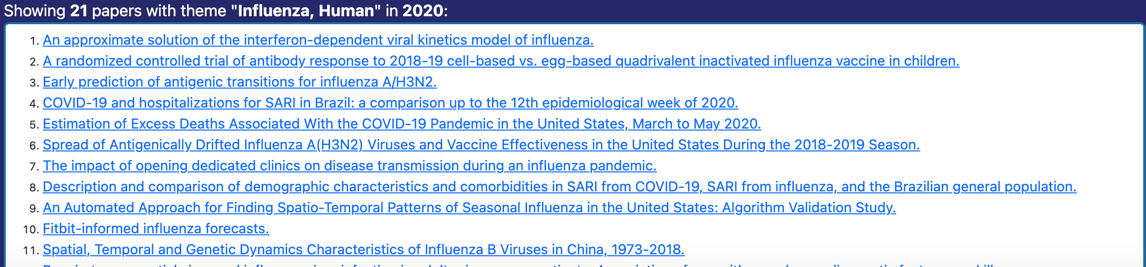
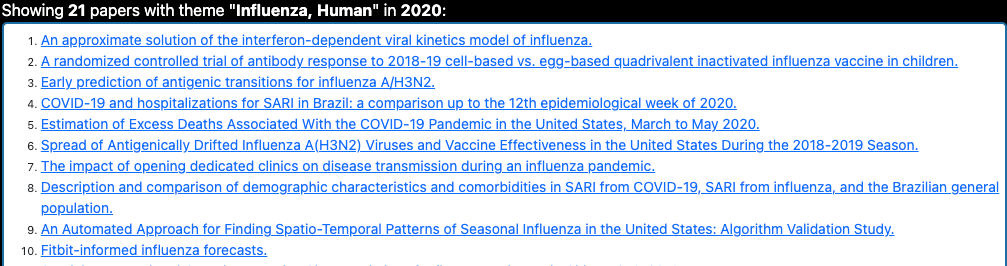
severl updates

diff --git a/css/themeriver.min.css b/css/themeriver.min.css
@@ -1,1 +1,1 @@
-@keyframes s-ripple{0%{opacity:0;transform:scale(0)}20%{transform:scale(1)}to{opacity:.01;transform:scale(1)}}@keyframes s-ripple-dup{0%{transform:scale(0)}30%,60%{transform:scale(1)}to{opacity:0;transform:scale(1)}}.control{font-family:arial,serif;display:block;position:relative;padding-left:30px;margin-bottom:5px;padding-top:3px;cursor:pointer;font-size:16px}.control input{position:absolute;z-index:-1;opacity:0}.control_indicator{position:absolute;top:2px;left:0;height:20px;width:20px;background:#e6e6e6;border:0 solid #000;border-radius:0}.control input:focus~.control_indicator,.control:hover input~.control_indicator{background:#ccc}.control input:checked~.control_indicator{background:#2aa1c0}.control input:checked:focus~.control_indicator,.control:hover input:not([disabled]):checked~.control_indicator{background:#0e6647d}.control input:disabled~.control_indicator{background:#e6e6e6;opacity:.6;pointer-events:none}.control_indicator:after{box-sizing:unset;content:"";position:absolute;display:none}.control input:checked~.control_indicator:after{display:block}.control-radio .control_indicator{border-radius:50%}.control-radio .control_indicator:after{left:7px;top:7px;height:6px;width:6px;border-radius:50%;background:#fff;transition:background 250ms}.control-radio input:disabled~.control_indicator:after{background:#7b7b7b;display:none}.control-radio .control_indicator::before{content:"";display:block;position:absolute;left:0;top:0;width:4.5rem;height:4.5rem;margin-left:-1.3rem;margin-top:-1.3rem;background:#2aa1c0;border-radius:3rem;opacity:.6;z-index:99999;transform:scale(0)}.control-radio input+.control_indicator::before{animation:s-ripple 250ms ease-out}.control-radio input:checked+.control_indicator::before{animation-name:s-ripple-dup}.control-radio{font-size:14px}text{font-size:2em}.tick text{font-size:1.6em;fill:#333}.tick line{stroke:#ccc}.container{max-width:100vw!important;height:100%;display:flex;flex-direction:column;flex-flow:column}#word-box{position:absolute;pointer-events:none}.subtitle,.title{text-align:center;font-size:20px}.subtitle{font-size:14px}#header-row{flex:0 1 auto}#chart-row{flex:1 1 auto;opacity:0}#info-row,#wrapper{height:100%}#info-row{flex:0 1 275px;background-color:#252969;row-gap:20px}#paper-list{height:250px;overflow:scroll;margin-bottom:25px;background-color:#fff;font-size:14px}#paper-list ul,#term-list ul{list-style-type:auto}#paper-list li::marker,#term-list li::marker{font-size:11px}#year-list{margin-left:1em}.selected{background-color:#2aa1c0}#term-list{overflow:auto;height:250px;margin-bottom:25px;background-color:#fff;font-size:14px}.term-display label{color:#fff;font-size:18px}.side-panel{border:2px solid #1c6ea4;border-radius:5px;padding:5px}.hide-on-start{visibility:hidden}#current-topic-count,#instruction-line,#pubmed-rb-line,#topic-line,#topic-line2{color:#fff;font-size:16px}.hide-on-selection{visibility:visible}.options-header{color:#fff;text-align:center}#current-topic,#current-topic-count,#current-topic-count2,#current-year{font-weight:700}.control{color:#fff}.paper-instructions{color:#fff;font-size:24px;margin-left:100px;margin-top:100px!important;opacity:0}#options{min-width:200px;max-width:300px;margin:30px auto auto;padding:5px;border:2px solid #fff;border-radius:10px}#ngram-size-in-title,#pubmed-datasource-in-title{font-weight:700}.box_with_arrow{padding:5px}.center-options{margin-left:auto;margin-right:auto;display:table}.control-group-ngram{display:flex;justify-content:center}.control-group-ngram .control{padding-right:10px}#ngram-line,#tension-line{margin-top:10px;font-size:16px}.paper-display{padding-right:45px}.paper-display,.term-display{display:none;opacity:0;height:250px}.tooltip{display:inline-block;position:relative;text-align:left}.tooltip .right{min-width:150px;max-width:250px;top:50%;left:100%;margin-left:20px;transform:translate(0,-50%);padding:2px;color:#444;background-color:#fff;font-weight:400;font-size:13px;border-radius:8px;position:absolute;z-index:99999999;box-sizing:border-box}.tooltip .left i,.tooltip .right i{position:absolute;top:50%;margin-top:-12px;width:12px;height:24px;overflow:hidden}.tooltip .right i{right:100%}.tooltip .right i::before{content:"";width:12px;height:12px;left:0;transform:translate(50%,-50%) rotate(-45deg)}.tooltip .left,.tooltip .left i::after,.tooltip .right i::before{position:absolute;top:50%;background-color:#fff}.tooltip .left{min-width:150px;right:100%;margin-right:20px;transform:translate(0,-50%);padding:2px;color:#444;font-weight:400;font-size:13px;border-radius:8px;z-index:99999999;box-sizing:border-box}#abstract-tooltip a,#abstract-tooltip a:visited,.tooltip:hover .left{display:block}.tooltip .left i{left:100%}.tooltip .left i::after{content:"";width:12px;height:12px;left:0;transform:translate(-50%,-50%) rotate(-45deg)}#theme-color{color:#000;text-align:center}#river-word,#tooltip-inner{background-color:#fff;color:#000}#river-word{font-size:16px;text-wrap:nowrap;margin-left:5px;margin-right:5px}#tooltip-inner{border:4px solid;border-radius:8px}#word-label-row{text-align:center;margin-bottom:0}#word-label{padding-right:5px;padding-left:5px}.slidecontainer{text-align:center}#myRange{height:30px;display:inline-block;vertical-align:bottom;width:50%}#main-svg path:hover{transition:.1s;opacity:1}#topic-list{width:100%}#topic-list>tbody>tr>td:nth-child(1){text-decoration:underline;color:var(--bs-link-color);width:10%}#topic-list>tbody>tr>td:nth-child(2),#topic-list>tbody>tr>td:nth-child(3){text-decoration:underline;color:var(--bs-link-color);width:80%}#topic-list>tbody>tr>td:nth-child(3){width:10%}.term-rank-number{font-size:10px}#term-list thead,.paper span{display:none}#term-list thead th.Color,#term-list thead th.Rank{width:15%}#home li,#menuv{font-size:14px;margin:1px}#menuv{padding:0;border:0;font-family:verdana,sans-serif;width:100%}.link a:hover{text-decoration:none}#abstract-hover{background:#252969;position:absolute;display:none;line-height:20px;padding:10px;font-size:12px;color:#fff;border:4px solid #fff;border-radius:5px;text-shadow:rgba(0,0,0,.1) 1px 1px 1px;box-shadow:rgba(0,0,0,.1) 1px 1px 2px 0}#instruction-row{color:#252969;margin:10px 5%}.instruction-header{font-weight:700}.paper:hover span{transition-delay:1s}.tab-content,.tab-pane{height:100%}body{height:100vh}#main-container{display:flex;flex-flow:column;height:100vh}.nav-tabs{flex:0 1 auto}.tab-content{flex:1 1 auto;overflow-y:auto}.caption-div{border:1px solid #ddd;display:flex;flex-direction:column;flex:1 1 50%}.caption{flex:0 1 auto;padding:5px;margin:5px;border:1px solid #ddd;border-radius:5px;background-color:#eee;text-align:center;font-size:16px;font-weight:700;color:#252969}.figure{padding:5px;width:100%}#fullfigure{width:75%;margin-left:auto;margin-right:auto}#instructions,#row-of-figures{display:flex;flex-direction:row}.text-instructions{flex:1 1 50%;margin-left:0;margin-right:75px;margin-bottom:20px}#row-of-figures{column-gap:20px}#fulltermdiv{flex:1 1 20%}#fullpaperdiv{flex:1 1 60%}#fulloptiondiv{flex:1 1 20%}#home li{padding:1px}#docTab{margin-bottom:10px}#yaxis,.hide{display:none}ul.list-style-none li a{color:#673ab7;padding:8px 0;display:block;text-decoration:none}#main-middle-div{padding:10px}#example-river{flex:1 1 50%!important;height:fit-content}#example-river img{max-height:600px}#viz-explain li{padding:0!important;margin:0 0 4px!important}.active{display:block}.hide-until-selection{visibility:hidden}#please-header{position:absolute;top:10%;color:#252969;font-size:24px}
+@keyframes s-ripple{0%{opacity:0;transform:scale(0)}20%{transform:scale(1)}to{opacity:.01;transform:scale(1)}}@keyframes s-ripple-dup{0%{transform:scale(0)}30%,60%{transform:scale(1)}to{opacity:0;transform:scale(1)}}.control{font-family:arial,serif;display:block;position:relative;padding-left:30px;margin-bottom:5px;padding-top:3px;cursor:pointer;font-size:16px}.control input{position:absolute;z-index:-1;opacity:0}.control_indicator{position:absolute;top:2px;left:0;height:20px;width:20px;background:#e6e6e6;border:0 solid rgba(8,8,14,.9);border-radius:0}.control input:focus~.control_indicator,.control:hover input~.control_indicator{background:#ccc}.control input:checked~.control_indicator{background:#8b0000}.control input:checked:focus~.control_indicator,.control:hover input:not([disabled]):checked~.control_indicator{background:#0e6647d}.control input:disabled~.control_indicator{background:#e6e6e6;opacity:.6;pointer-events:none}.control_indicator:after{box-sizing:unset;content:"";position:absolute;display:none}.control input:checked~.control_indicator:after{display:block}.control-radio .control_indicator{border-radius:50%}.control-radio .control_indicator:after{left:7px;top:7px;height:6px;width:6px;border-radius:50%;background:#fff;transition:background 250ms}.control-radio input:disabled~.control_indicator:after{background:#7b7b7b;display:none}.control-radio .control_indicator::before{content:"";display:block;position:absolute;left:0;top:0;width:4.5rem;height:4.5rem;margin-left:-1.3rem;margin-top:-1.3rem;background:#2aa1c0;border-radius:3rem;opacity:.6;z-index:99999;transform:scale(0)}.control-radio input+.control_indicator::before{animation:s-ripple 250ms ease-out}.control-radio input:checked+.control_indicator::before{animation-name:s-ripple-dup}.control-radio{font-size:14px}text{font-size:2em}.tick text{font-size:1.6em;fill:#333}.tick line{stroke:#ccc}.container{max-width:100vw!important;height:100%;display:flex;flex-direction:column;flex-flow:column}#word-box{position:absolute;pointer-events:none}.subtitle,.title{text-align:center;font-size:20px}.subtitle{font-size:14px}#header-row{flex:0 1 auto}#chart-row{flex:1 1 auto;opacity:0}#info-row,#wrapper{height:100%}#info-row{flex:0 1 275px;background-color:rgba(8,8,14,.9);row-gap:20px}#paper-list{height:250px;overflow:scroll;margin-bottom:25px;background-color:#fff;font-size:14px}#paper-list ul,#term-list ul{list-style-type:auto}#paper-list li::marker,#term-list li::marker{font-size:11px}#year-list{margin-left:1em}.selected{background-color:#2aa1c0}#term-list{overflow:auto;height:250px;margin-bottom:25px;background-color:#fff;font-size:14px}.term-display label{color:#fff;font-size:18px}.side-panel{border:2px solid rgba(0,0,0,.7)!important;border-radius:5px;padding:5px}.hide-on-start{visibility:hidden}#current-topic-count,#instruction-line,#pubmed-rb-line,#topic-line,#topic-line2{color:#fff;font-size:16px}.hide-on-selection{visibility:visible}.options-header{color:#fff;text-align:center}#current-topic,#current-topic-count,#current-topic-count2,#current-year{font-weight:700}.control{color:#fff}.paper-instructions{color:#fff;font-size:24px;margin-left:100px;margin-top:100px!important;opacity:0}.app-title{font-size:24px;margin-left:auto;padding-right:50px;background:rgba(8,8,14,.9)!important;color:#fff;padding-left:50px}#options{min-width:200px;max-width:300px;margin:30px auto auto;padding:5px;border:2px solid #fff;border-radius:10px}#ngram-size-in-title,#pubmed-datasource-in-title{font-weight:700}.box_with_arrow{padding:5px}.center-options{margin-left:auto;margin-right:auto;display:table}.control-group-ngram{display:flex;justify-content:center}.control-group-ngram .control{padding-right:10px}#ngram-line,#tension-line{margin-top:10px;font-size:16px}.paper-display{padding-right:45px}.paper-display,.term-display{display:none;opacity:0;height:225px;overflow:auto}.tooltip{display:inline-block;position:relative;text-align:left}.tooltip .right{min-width:150px;max-width:250px;top:50%;left:100%;margin-left:20px;transform:translate(0,-50%);padding:2px;color:#444;background-color:#fff;font-weight:400;font-size:13px;border-radius:8px;position:absolute;z-index:99999999;box-sizing:border-box}.tooltip .left i,.tooltip .right i{position:absolute;top:50%;margin-top:-12px;width:12px;height:24px;overflow:hidden}.tooltip .right i{right:100%}.tooltip .right i::before{content:"";width:12px;height:12px;left:0;transform:translate(50%,-50%) rotate(-45deg)}.tooltip .left,.tooltip .left i::after,.tooltip .right i::before{position:absolute;top:50%;background-color:#fff}.tooltip .left{min-width:150px;right:100%;margin-right:20px;transform:translate(0,-50%);padding:2px;color:#444;font-weight:400;font-size:13px;border-radius:8px;z-index:99999999;box-sizing:border-box}#abstract-tooltip a,#abstract-tooltip a:visited,.tooltip:hover .left{display:block}.tooltip .left i{left:100%}.tooltip .left i::after{content:"";width:12px;height:12px;left:0;transform:translate(-50%,-50%) rotate(-45deg)}#theme-color{color:rgba(8,8,14,.9)!important;text-align:center}#river-word,#tooltip-inner{background-color:#fff;color:#000}#river-word{font-size:16px;text-wrap:nowrap;margin-left:5px;margin-right:5px}#tooltip-inner{border:4px solid;border-radius:8px}#word-label-row{text-align:center;margin-bottom:0}#word-label{padding-right:5px;padding-left:5px}.slidecontainer{text-align:center}#myRange{height:30px;display:inline-block;vertical-align:bottom;width:50%}#main-svg path:hover{transition:.1s;opacity:1}#topic-list{width:100%}#topic-list>tbody>tr>td:nth-child(1){text-decoration:underline;color:var(--bs-link-color);width:10%}#topic-list>tbody>tr>td:nth-child(2),#topic-list>tbody>tr>td:nth-child(3){text-decoration:underline;color:var(--bs-link-color);width:80%}#topic-list>tbody>tr>td:nth-child(3){width:10%}.term-rank-number{font-size:10px}#term-list thead,.paper span{display:none}#term-list thead th.Color,#term-list thead th.Rank{width:15%}#menuv{padding:0;border:0;font-size:14px;font-family:verdana,sans-serif;width:100%;margin:1px}.link a:hover{text-decoration:none}#abstract-hover{background:rgba(0,0,0,.9)!important;position:absolute;display:none;line-height:20px;padding:10px;font-size:12px;color:#fff;border:4px solid #fff;border-radius:5px;text-shadow:rgba(0,0,0,.1) 1px 1px 1px;box-shadow:rgba(0,0,0,.1) 1px 1px 2px 0}#instruction-row{color:rgba(8,8,14,.9);margin:10px 5%}.instruction-header{font-weight:700}.paper:hover span{transition-delay:1s}.tab-content,.tab-pane{height:100%}body{height:100vh}#main-container{display:flex;flex-flow:column;height:100vh}#docTab,#mainTab{color:#fff;--bs-nav-tabs-border-color:rgba(8, 8, 14, 0.9)!important;--bs-nav-tabs-link-active-border-color:rgba(8, 8, 14, 0.9) rgba(8, 8, 14, 0.9) #fff!important;--bs-nav-tabs-link-active-bg:rgba(8, 8, 14, 0.9)!important;--bs-nav-tabs-link-active-color:white!important;--bs-nav-link-color:rgba(0, 0, 0, 0.7)!important;--bs-nav-link-hover-color:rgba(8, 8, 14, 0.9)!important}#mainTab .nav-link{--bs-nav-link-padding-y:0.2rem}#docTab .nav-link,#mainTab .nav-link{border:1px solid rgba(8,8,14,.9);margin-top:5px;height:35px}.nav-item:nth-child(1){margin-left:25px}.nav-tabs{flex:0 1 auto;--bs-nav-tabs-border-width:4px!important}.tab-content{flex:1 1 auto;overflow-y:auto}.caption-div{border:1px solid #ddd;display:flex;flex-direction:column;flex:1 1 50%}.caption{flex:0 1 auto;padding:5px;margin:5px;border:1px solid #ddd;border-radius:5px;background-color:#eee;text-align:center;font-size:16px;font-weight:700;color:rgba(0,0,0,.7)}.figure{padding:5px;width:100%}#fullfigure{width:75%;margin-left:auto;margin-right:auto}#instructions,#row-of-figures{display:flex;flex-direction:row}.text-instructions{flex:1 1 50%;margin-left:0;margin-right:75px;margin-bottom:20px}#row-of-figures{column-gap:20px}#fulltermdiv{flex:1 1 20%}#fullpaperdiv{flex:1 1 60%}#fulloptiondiv{flex:1 1 20%}#home li{font-size:14px;padding:1px;margin:1px}#docTab{margin-bottom:10px}#yaxis,.hide{display:none}ul.list-style-none li a{color:#673ab7;padding:8px 0;display:block;text-decoration:none}#main-middle-div{padding:10px}#example-river{flex:1 1 50%!important;height:fit-content}#example-river img{max-height:600px}#viz-explain li{padding:0!important;margin:0 0 4px!important}.active{display:block}.hide-until-selection{visibility:hidden}#please-header{position:absolute;top:10%;color:#252969;font-size:24px}

diff --git a/js/main.js b/js/main.js
@@ -39,32 +39,32 @@ const ngramSizeLookup = {
     '3': 'Trigrams'
 }
 
-    function setPaperAndTop20Showing(b) {
-        let hideOnSelection, paperInstructions, paperDisplay, hideuntilSelection, termDisplay, paperDisplayOpacity;
+function setPaperAndTop20Showing(b) {
+    let hideOnSelection, paperInstructions, paperDisplay, hideuntilSelection, termDisplay, paperDisplayOpacity;
 
-        if (!b) {
-            hideOnSelection = "hidden";
-            paperInstructions = "none";
-            paperDisplay = "block";
-            hideuntilSelection = "visible";
-            termDisplay = "block";
-            paperDisplayOpacity = 1
+    if (b) {
+        hideOnSelection = "hidden";
+        paperInstructions = "none";
+        paperDisplay = "block";
+        hideuntilSelection = "visible";
+        termDisplay = "block";
+        paperDisplayOpacity = 1
 
 
-        } else {
-                hideOnSelection = "visible";
-                paperInstructions = "block";
-                paperDisplay = "none";
-                hideuntilSelection = "hidden";
-                termDisplay = "none";
-                paperDisplayOpacity = 0
-        }
-           $(".hide-on-selection").css("visibility", hideOnSelection);
-            $(".paper-instructions").css("display", paperInstructions);
-            $(".hide-until-selection").css("visibility", hideuntilSelection);
-            $(".paper-display, .term-display").css({'display': paperDisplay});
-            $(".paper-display, .term-display").css({'opacity': paperDisplayOpacity, 'transition': '2s'});
+    } else {
+        hideOnSelection = "visible";
+        paperInstructions = "block";
+        paperDisplay = "none";
+        hideuntilSelection = "hidden";
+        termDisplay = "none";
+        paperDisplayOpacity = 0
     }
+    $(".hide-on-selection").css("visibility", hideOnSelection);
+    $(".paper-instructions").css("display", paperInstructions);
+    $(".hide-until-selection").css("visibility", hideuntilSelection);
+    $(".paper-display, .term-display").css({'display': paperDisplay});
+    $(".paper-display, .term-display").css({'opacity': paperDisplayOpacity, 'transition': '2s'});
+}
 
 const showPapers = (that) => {
 
@@ -116,6 +116,7 @@ const showPapers = (that) => {
     }
 
     function flash(topic, n) {
+
         if (n > 0) {
             $($("[class='" + topic + "']")[0]).css("filter", "brightness(0%)");
             flashTimer = setTimeout(function () {
@@ -147,10 +148,7 @@ const showPapers = (that) => {
     const year = dates[date_index].substr(0, 4)
     resetPaths()
     flash(topic, 10)
-
-
-
-    setPaperAndTop20Showing(false)
+  setPaperAndTop20Showing(true)
 
     $($("[class='" + topic + "']")[0]).css("filter", "brightness(100%)");
     console.log(papersJsonFilename2)
@@ -208,6 +206,7 @@ $(document).ready(function () {
 
     $('.nav-tabs a').on('shown.bs.tab', function (event) {
         var x = $(event.target).text();
+        let stateObj;
         if (x == "Visualization") {
             const drawRiver = (countsCsvFilename, papersJsonFilename, tension) => {
                 papersJsonFilename2 = papersJsonFilename
@@ -297,7 +296,7 @@ $(document).ready(function () {
                         .append('rect')
                         .attr('class', 'rect-clip')
                         .attr('width', 0)
-                        .attr('height', $("#main-svg")[0].getBoundingClientRect().height + 100)
+                        .attr('height', $("#main-svg")[0].getBoundingClientRect().height + 1000)
                     // .attr('height', height)
 
                     g.selectAll('path')
@@ -499,7 +498,7 @@ $(document).ready(function () {
                 });
             }
 
-            function updateOptions() {
+            function updateOptions(stateObj) {
                 function getBaseFilename() {
                     //get the values of the radio buttons
                     const pubmedSourceValue = $('.control-group-pubmed-source input[type=radio]:checked').val();
@@ -530,7 +529,7 @@ $(document).ready(function () {
                     $(".control-group-ngram .control input").prop("disabled", isMeshTerms)
                 }
 
-                    setPaperAndTop20Showing(true)
+                setPaperAndTop20Showing(!stateObj.initialDrawing && !stateObj.extractionMethodChanged);
 
                 const isMeshTerms = $('.control-group-pubmed-source input[type=radio]:checked').val() === 'meshTerms';
 
@@ -575,18 +574,25 @@ $(document).ready(function () {
                 }
             }
 
+            let stateObj = new Object()
+            stateObj.resizing = false
+            stateObj.extractionMethodChanged = false
+            stateObj.initialDrawing = false
             $('.control-group-ngram input[type=radio], .control-group-pubmed-source input[type=radio]').change(() => {
-                updateOptions()
+                stateObj.extractionMethodChanged = true;
+
+                updateOptions(stateObj)
             })
 
-            $("#myRange").on("input", function () {
-                updateOptions()
-            })
+            // $("#myRange").on("input", function () {
+            //     updateOptions(false)
+            // })
 
             $(window).on("resize", function () {
-                updateOptions()
+                updateOptions(stateObj)
             })
-            updateOptions();
+            stateObj.initialDrawing = true
+            updateOptions(stateObj);
 
         }
     });

diff --git a/index.html b/index.html
@@ -15,23 +15,25 @@
         <ul class="nav nav-tabs" id="mainTab">
             <li class="nav-item"><a class="nav-link active" data-bs-toggle="tab" href="#home">Introduction</a></li>
             <li class="nav-item"><a class="nav-link" data-bs-toggle="tab" href="#viz">Visualization</a></li>
+             <span class="app-title">MIDAS ThemeRiver Visualization</span>
         </ul>
+
         <div class="tab-content">
             <div class="tab-pane fade show active" id="home">
                 <div class="row" id="instruction-row">
                     <div id="instructions">
                         <div class="text-instructions">
-                            <div class="h3 instruction-header mt-2">What is a Theme River?</div>
-                            <p>A Theme River is a visualization of thematic variations over time in a set of documents.
+                            <div class="h3 instruction-header mt-2">What is a ThemeRiver?</div>
+                            <p>A <a href="https://ieeexplore.ieee.org/abstract/document/885098/">ThemeRiver</a> is a visualization of thematic variations over time in a set of documents.
                                 Documents are grouped into <i>themes</i> based on the terms they contain.</p>
-                            <p>In a Theme River visualization, themes are represented as colored ribbons that flow from
+                            <p>In a ThemeRiver visualization, themes are represented as colored ribbons that flow from
                                 left to right. The x-axis represents time, and the y-axis represents the proportion of
                                 documents that contain a given theme at a given time. When individual themes are stacked
                                 on top of each other, the visualization resembles a river, hence the name.</p></div>
 
                     </div>
                     <div id="viz-explain">
-                        <div class="h3 instruction-header">The MIDAS Theme River Visualization</div>
+                        <div class="h3 instruction-header">The MIDAS ThemeRiver Visualization</div>
                         <p>To view the visualization, click on the Visualization tab above.
 
                         <div>
@@ -44,13 +46,13 @@
                         </div>
                         <div class="hide active" id="viz-tab-explain">
                             <div class="h5">Visualization</div>
-                            <p>The MIDAS Theme River is an interactive display that allows users to explore the themes
+                            <p>The MIDAS ThemeRiver is an interactive display that allows users to explore the themes
                                 of MIDAS papers over time. Specifically, the display shows the 20 most frequently
                                 occurring themes in infectious disease papers authored by MIDAS members from 2013 to
                                 2022.
                             <div class="caption-div" id="main-middle-div" width="75%"><p class="h6">The display is
                                 composed of four parts:</p>
-                                <div class="caption">1. The Theme River</div>
+                                <div class="caption">1. The ThemeRiver</div>
                                 <img alt="river" class="figure" class="img-fluid" id="" src="./img/river.png">
                                 <div class="usage-div">
                                     <ul>
@@ -88,7 +90,7 @@
                                     </div>
                                     <div class="caption-div" id="fulltermdiv">
                                         <div class="caption">4. Theme Listing</div>
-                                        <img alt="river" class="figure" class="img-fluid" src="./img/terms.png"
+                                        <img alt="river" class="figure" class="img-fluid" src="img/terms.png"
                                              width="200px">
                                         <ul>
                                             <li>Clicking on a theme name will flash the theme in the visualization for a

diff --git a/css/themeriver.css b/css/themeriver.css
@@ -23,7 +23,7 @@
     height: 20px;
     width: 20px;
     background: #e6e6e6;
-    border: 0 solid #000000;
+    border: 0 solid rgba(8, 8, 14, 0.9);
     border-radius: 0px;
 }
 
@@ -33,7 +33,7 @@
 }
 
 .control input:checked ~ .control_indicator {
-    background: #2aa1c0;
+    background: darkred;
 }
 
 .control:hover input:not([disabled]):checked ~ .control_indicator,
@@ -218,7 +218,7 @@ text {
 
 #info-row {
    flex: 0 1 275px;
-    background-color: #252969;
+    background-color: rgba(8, 8, 14, 0.9);
     row-gap: 20px;
 
     height:100%;
@@ -282,7 +282,7 @@ text {
 }
 
 .side-panel {
-    border: 2px solid #1C6EA4;
+    border: 2px solid rgba(0, 0, 0, 0.7) !important;;
     border-radius: 5px;
     padding: 5px 5px 5px 5px;
 }
@@ -323,6 +323,15 @@ color: white;
     margin-left: 100px;
     margin-top: 100px !important;
    opacity: 0;
+}
+
+.app-title {
+font-size: 24px;
+    margin-left: auto;
+    padding-right: 50px;
+    background: rgba(8, 8, 14, 0.9) !important;
+    color: white;
+    padding-left: 50px;
 }
 
 #options {
@@ -380,14 +389,16 @@ color: white;
 
 .paper-display {
     padding-right: 45px;
-    height:250px;
+    height:225px;
     display:none;
     opacity: 0;
+    overflow: auto;
 }
 .term-display {
     display: none;
     opacity: 0;
-     height:250px;
+     height:225px;
+    overflow: auto;
 }
 
 .tooltip {
@@ -491,7 +502,7 @@ color: white;
 
 #theme-color {
 
-    color: black;
+    color: rgba(8, 8, 14, 0.9) !important;
     text-align: center;
 }
 
@@ -606,7 +617,7 @@ color: white;
 }
 
 #abstract-hover {
-    background: #252969;
+    background: rgba(0, 0, 0, 0.9) !important;;
     position: absolute;
     display: none;
 
@@ -625,7 +636,7 @@ color: white;
     margin-top: 10px;
     margin-bottom: 10px;
 
-    color: #252969;
+    color: rgba(8, 8, 14, 0.9);
     margin-left: 5%;
     margin-right: 5%;
 }
@@ -657,9 +668,36 @@ body {
     height: 100vh;
 
 }
+#mainTab, #docTab  {
+    color: white;
+    --bs-nav-tabs-border-color: rgba(8, 8, 14, 0.9) !important;
 
+    --bs-nav-tabs-link-active-border-color: rgba(8, 8, 14, 0.9) rgba(8, 8, 14, 0.9) #fff !important;
+    --bs-nav-tabs-link-active-bg: rgba(8, 8, 14, 0.9) !important;
+--bs-nav-tabs-link-active-color: white !important;
+    --bs-nav-link-color: rgba(0, 0, 0, 0.7) !important;
+    --bs-nav-link-hover-color: rgba(8, 8, 14, 0.9) !important;
+
+}
+#mainTab .nav-link {
+      --bs-nav-link-padding-y: 0.2rem;
+}
+
+#mainTab .nav-link, #docTab .nav-link {
+    border: 1px solid rgba(8, 8, 14, 0.9);
+    margin-top: 5px;
+    height: 35px;
+
+}
+
+
+
+.nav-item:nth-child(1) {
+    margin-left:25px;
+}
 .nav-tabs {
     flex: 0 1 auto;
+    --bs-nav-tabs-border-width: 4px !important;
 }
 
 .tab-content {
@@ -686,7 +724,7 @@ body {
     text-align: center;
     font-size: 16px;
     font-weight: 700;
-    color: #252969;
+    color: rgba(0,0,0,.7);
 }
 
 .figure {
